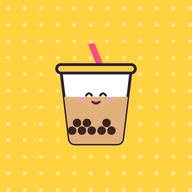
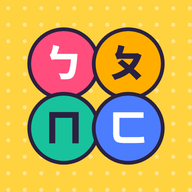
アイコンを注音シールのデザインに変更

diff --git a/sw.js b/sw.js
@@ -1,6 +1,6 @@
 // 台湾華語 練習帳 — オフライン用サービスワーカー
 // アプリを更新したら VERSION の数字を1つ上げてください（古いキャッシュが入れ替わります）
-const VERSION = 'v3';
+const VERSION = 'v4';
 const APP = 'app-' + VERSION;
 const FONTS = 'fonts-v1';
 const SHELL = ['./', './index.html', './manifest.webmanifest', './icon-192.png', './icon-512.png', './icon-180.png'];
